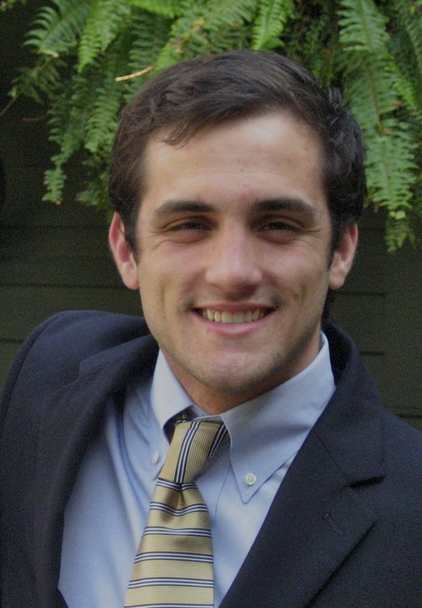
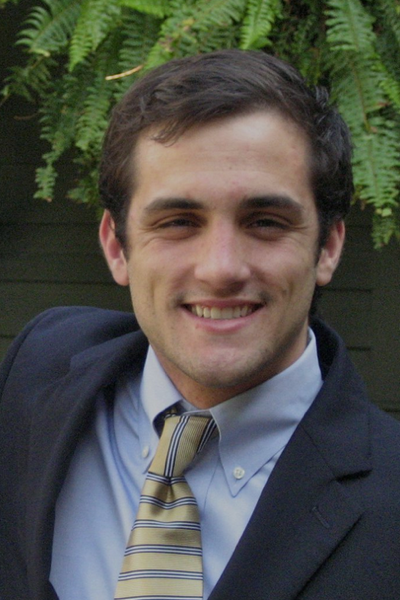
resized photos; started adding details to cards

diff --git a/media/scripts/people.js b/media/scripts/people.js
@@ -1,58 +1,64 @@
 var people = [
   {
+    'name': 'Ryan Cook',
+    'bio': "I'm Ryan. I want to help you deliver better products, faster. Midwesterner by birth. Mountain-lover by choice. Technologist by nature. Simple and to everyplace but the point.",
+    'img': 'media/styles/images/ryan-small.png',
+    'skills': ['ruby', 'javascript', 'asynchronous queuing/work systems', 'data modeling', 'product/project development planning'],
+    'twitter': 'http://twitter.com/cookrn',
+    'email': 'cookrn@gmail.com',
+    'phone': '(720) 319-7660',
+    'position': 'HackStar'
+  },
+  {
     'name': 'Josh Nielsen',
     'bio': "I'm From Texas but have lived all over The West.  I got the startup bug during college and took a job at a company in Santa Monica called Mahalo.  I worked there for a year and a half as Lead Front-end Developer and then decided to take the next step in my career by moving to Boulder and getting involved with Techstars.  I'm here to help wherever I can.",
-    'img': 'media/styles/images/josh.jpg',
+    'img': 'media/styles/images/josh-small.png',
     'skills': ['Javascript', 'Backbone.js', 'Node.js', 'Python'],
     'twitter': 'http://twitter.com/joshontheweb',
     'email': 'josh@joshontheweb.com',
     'phone': '(310) 663-2648',
-    'homepage': 'joshontheweb.com'
+    'homepage': 'joshontheweb.com',
+    'position': 'HackStar'
   },
   {
     'name': 'Travis Sisti',
     'bio': 'Some bio here',
-    'img': 'media/styles/images/josh.jpg',
+    'img': 'media/styles/images/travis-small.png',
     'skills': ['coding', 'architecture', 'UI'],
     'twitter': 'http://twitter.com/joshontheweb',
     'email': 'josh@joshontheweb.com',
-    'phone': ''
-  },
-  {
-    'name': 'Arthur Loyd',
-    'bio': 'I have a diverse background, specializing in venture management, law, and finance.  I have an undergrad degree in entrepreneurship from the University of Oklahoma, and have worked with several startups including in IT and non-profit.  After working for a few years I went back to school to study law and finance and have one semester left in a combined J.D./ M.S. in Finance program at the University of Tulsa.  On the legal side I have worked for the government, in private practice, and for the United Nations managing technology in the international courtroom setting (at the ICTY).  In business, I was a consultant to HR at a Fortune 200 company, where I also performed internal operational audits.  I also was a loaned executive to the United Way in Tulsa, where I managed fundraising campaigns at companies in IT and Manufacturing, raising $2.4 Million for Tulsa charities.<br />I am excited to work with the Techstars Founders, helping in any way I can.  I have experience in operations, management, financial modeling, legal research, fundraising, and marketing.  I am committed to working with great companies and helping them succeed.  My hobbies include (though I never limit them) biking of any sort, soccer, snowboarding, traveling, frisbee, riding my Ducati, and just being outside.  I also love learning new languages.',
-    'img': 'media/styles/images/arthur.png',
-    'skills': [],
-    'twitter': 'http://twitter.com/ArtmanML',
-    'email': 'loyd9867@gmail.com',
-    'phone': '(918) 398-3409'
-  },
-  {
-    'name': 'Eugene Wan',
-    'bio': 'As a Colorado native, I have been drawn to the excitement, wealth of talent, and wonderful people that the Boulder entrepreneurial and startup scene provides. Something great is happening in Boulder - I am stoked to be in the trenches of innovation with TechStars. <br /><br />My entrance into the startup scene was through the Startup Colorado and the great work that the organization has been doing to promote entrepreneurship throughout this great state. As the Program Coordinator for Startup Summer, a novel summer program for undergraduates, I helped guide the vision of jump starting innovation at an university level, as well as handling a slew of logistics. Nothing will get you more addicted to the startup lifestyle than exposure to the community of entrepreneurs here in Boulder. <br /> I\'m a temperamental runner, an aspiring tennis player, a coffee connoisseur, and Starcraft enthusiast. Consumer electronic blogs and news sites consistently take up half my tabs in Chrome, and trust me, there\'s always a lot of tabs. I live with a constant need to improve and a greater need to innovate on that improvement, which is why I\'m here with TechStars. It\'s going to be a ridiculous summer - in the best way possible.',
-    'img': 'media/styles/images/eugene.jpg',
-    'skills': ['All productivity software - Office, Google Docs, Open Office, Prezi', 'Social Media', 'Logistics', 'Idea Generation'],
-    'twitter': 'http://twitter.com/eugenewan',
-    'email': 'eugene.l.wan@gmail.com',
-    'homepage': 'eugenewan.com',
-    'phone': '(303) 324-1288'
-  },
-  {
-    'name': 'Ryan Cook',
-    'bio': "I'm Ryan. I want to help you deliver better products, faster. Midwesterner by birth. Mountain-lover by choice. Technologist by nature. Simple and to everyplace but the point.",
-    'img': 'media/styles/images/ryan.png',
-    'skills': ['ruby', 'javascript', 'asynchronous queuing/work systems', 'data modeling', 'product/project development planning'],
-    'twitter': 'http://twitter.com/cookrn',
-    'email': 'cookrn@gmail.com',
-    'phone': '(720) 319-7660'
+    'phone': '(518) 744-6367',
+    'position': 'HackStar'
   },
   {
     'name': 'James Belfer',
     'bio': "Hey I'm James and I have only two degrees of separation from Kevin Bacon.  After graduation from Northwestern University in 2009, I moved to New York City where I've been running an independent film finance, production and strategy company, Dogfish Pictures.  Through my company I've invested and/or produced The Romantics (2010), Salvation Boulevard (2011), Like Crazy (2011, Sundance Grand Jury Prize Winner), Vamps (2012) and Compliance (2012). <br /><br />I began attending NYU Stern fall of 2011 in order to expand my repertoire into the entrepreneurship and innovation space as well as learning practical business uses for data science.  I'm a firm believer of a scientific language within the data of indie film and am hellbent on uncovering it.  I've got some skills in Excel, financial modeling, learning basic html code (CodeYear) and have been studying lean startup practices for a good part of the last year.  Last few books I've read: Do More Faster, Venture Deals, The Founder's Dilemma, Disrupt, Co-Opetition, and A Whole New Mind.  I'm an avid coffee drinker and cartoon watcher.",
-    'img': 'media/styles/images/james.jpg',
+    'img': 'media/styles/images/james-small.png',
     'skills': [],
     'twitter': 'http://twitter.com/jamesbelfer',
     'email': 'jamesbelfer@gmail.com',
-    'phone': '(516) 455-4761'
+    'phone': '(516) 455-4761',
+    'position': 'Associate'
+  },
+  {
+    'name': 'Arthur Loyd',
+    'bio': 'I have a diverse background, specializing in venture management, law, and finance.  I have an undergrad degree in entrepreneurship from the University of Oklahoma, and have worked with several startups including in IT and non-profit.  After working for a few years I went back to school to study law and finance and have one semester left in a combined J.D./ M.S. in Finance program at the University of Tulsa.  On the legal side I have worked for the government, in private practice, and for the United Nations managing technology in the international courtroom setting (at the ICTY).  In business, I was a consultant to HR at a Fortune 200 company, where I also performed internal operational audits.  I also was a loaned executive to the United Way in Tulsa, where I managed fundraising campaigns at companies in IT and Manufacturing, raising $2.4 Million for Tulsa charities.<br />I am excited to work with the Techstars Founders, helping in any way I can.  I have experience in operations, management, financial modeling, legal research, fundraising, and marketing.  I am committed to working with great companies and helping them succeed.  My hobbies include (though I never limit them) biking of any sort, soccer, snowboarding, traveling, frisbee, riding my Ducati, and just being outside.  I also love learning new languages.',
+    'img': 'media/styles/images/arthur-small.png',
+    'skills': [],
+    'twitter': 'http://twitter.com/ArtmanML',
+    'email': 'loyd9867@gmail.com',
+    'phone': '(918) 398-3409',
+    'position': 'Associate'
+  },
+  {
+    'name': 'Eugene Wan',
+    'bio': 'As a Colorado native, I have been drawn to the excitement, wealth of talent, and wonderful people that the Boulder entrepreneurial and startup scene provides. Something great is happening in Boulder - I am stoked to be in the trenches of innovation with TechStars. <br /><br />My entrance into the startup scene was through the Startup Colorado and the great work that the organization has been doing to promote entrepreneurship throughout this great state. As the Program Coordinator for Startup Summer, a novel summer program for undergraduates, I helped guide the vision of jump starting innovation at an university level, as well as handling a slew of logistics. Nothing will get you more addicted to the startup lifestyle than exposure to the community of entrepreneurs here in Boulder. <br /> I\'m a temperamental runner, an aspiring tennis player, a coffee connoisseur, and Starcraft enthusiast. Consumer electronic blogs and news sites consistently take up half my tabs in Chrome, and trust me, there\'s always a lot of tabs. I live with a constant need to improve and a greater need to innovate on that improvement, which is why I\'m here with TechStars. It\'s going to be a ridiculous summer - in the best way possible.',
+    'img': 'media/styles/images/eugene-small.png',
+    'skills': ['All productivity software - Office, Google Docs, Open Office, Prezi', 'Social Media', 'Logistics', 'Idea Generation'],
+    'twitter': 'http://twitter.com/eugenewan',
+    'email': 'eugene.l.wan@gmail.com',
+    'homepage': 'eugenewan.com',
+    'phone': '(303) 324-1288',
+    'position': 'Associate'
   }
 ];

diff --git a/media/styles/style.css b/media/styles/style.css
@@ -1,7 +1,9 @@
+body { color: #444; }
+
 .header { height: 100px; padding: 20px 40px; background: transparent url(../images/stripes.png) 0 0 repeat-x; position: relative; }
 .header h1 { color: #444; font-size: 60px; position: absolute; left: 211px; top: 49px; }
 .slider {
-    overflow-x: scroll; width: 100%; background: transparent url(../images/mountain3.png) 50% -80px no-repeat;
+    overflow-x: scroll; width: 100%; background: transparent url(../images/mountain3a-wide.png) 0 -80px repeat-x;
             box-shadow: inset 0px 0px 5px rgba(0,0,0,.6);
        -moz-box-shadow: inset 0px 0px 5px rgba(0,0,0,.6);
     -webkit-box-shadow: inset 0px 0px 5px rgba(0,0,0,.6);
@@ -10,7 +12,7 @@
 .slider .person { cursor: pointer;}
 
 .person {
-    float: left; width: 300px; margin: 40px 40px 40px 0; padding: 20px;
+    float: left; width: 300px; height: 200px; margin: 40px 40px 40px 0; padding: 20px;
             border-radius: 3px;
        -moz-border-radius: 3px;
     -webkit-border-radius: 3px;
@@ -22,7 +24,13 @@
     -webkit-box-shadow: 0px 0px 3px rgba(0,0,0,.3);
 
 }
-.person .avatar { width: 120px; }
+.person .avatar { float: left; margin-right: 20px; }
+.person .position { font-size: 11px; color: rgba(0,187,65,.8); text-transform: uppercase; }
+.person .name { font-size: 24px; font-weight: bold; position: relative; top: -4px;}
+.person .contact { padding-left: 26px; }
+.person .contact.email { background: transparent url(../images/contact-email-dark.png) 0 0 no-repeat; }
+.person .contact.twitter { background: transparent url(../images/contact-twitter.png) 0 0 no-repeat; }
+.person .contact.phone { background: transparent url(../images/contact-phone.png) 0 0 no-repeat; }
 
 .details { margin-top: 40px; }
 .details .avatar { float: left; }

diff --git a/index.html b/index.html
@@ -62,6 +62,11 @@
     
 	<script type="text/html" class="person-template">
       <img class="avatar" src="<%= img %>" alt="<%= name %>'s image" />
+      <div class="position"><%= position %></div>
+      <div class="name"><%= name %></div>
+      <div class="contact email"><%= email %></div>
+      <div class="contact twitter"><%= twitter %></div>
+      <div class="contact phone"><%= phone %></div>
     </script>
     
 	<script type="text/html" class="person-detail-template">
